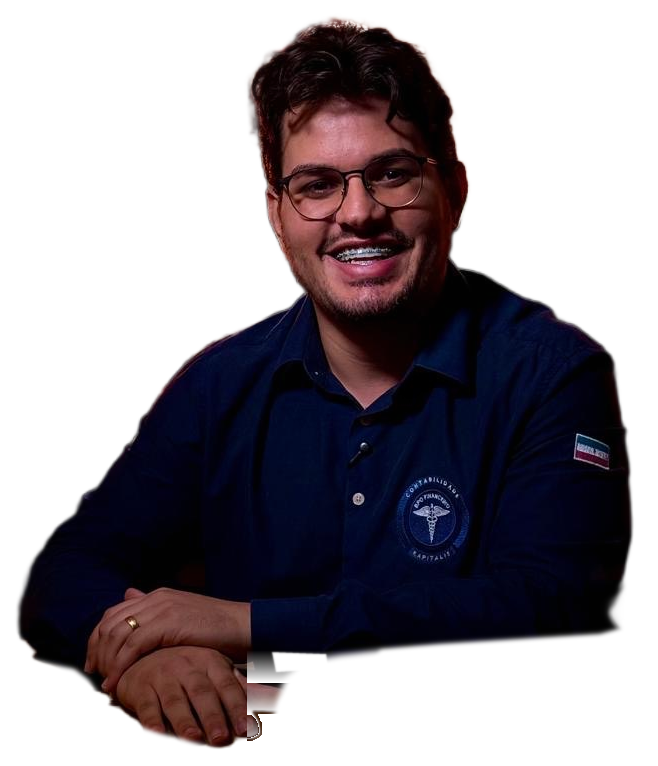
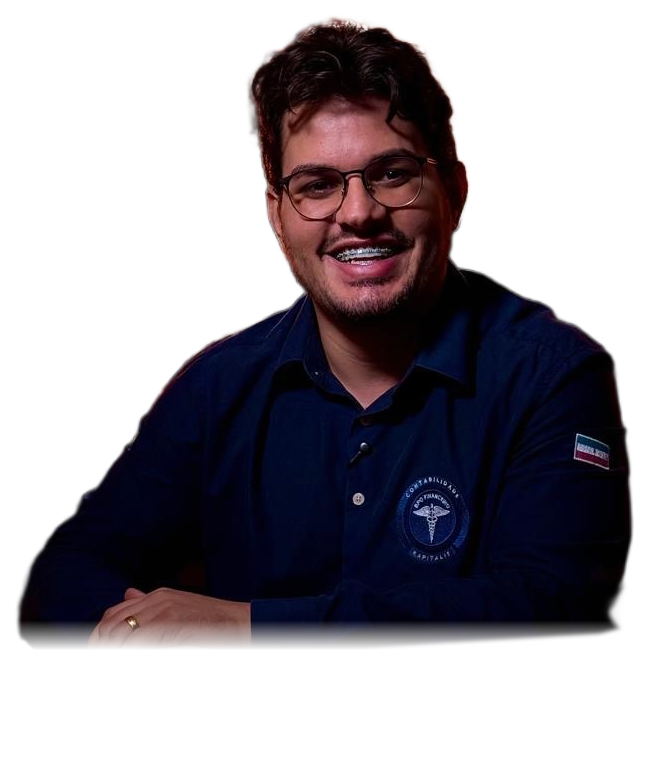
Ajusta retrato e posição do Próximo passo

Changed region(s): [[0.0304, 0.8107, 0.9422, 0.9909]]

diff --git a/src/sections/FinalCtaSection.module.css b/src/sections/FinalCtaSection.module.css
@@ -1,9 +1,7 @@
 .section {
   position: relative;
   overflow: clip;
-  background:
-    radial-gradient(ellipse at 20% 44%, var(--color-on-dark-glow), transparent 38rem),
-    var(--color-navy);
+  background: var(--color-navy);
   color: var(--color-paper);
 }
 
@@ -11,9 +9,9 @@
   position: relative;
   display: grid;
   grid-template-areas:
-    'portrait content'
+    'content portrait'
     'rule rule';
-  grid-template-columns: minmax(0, 0.9fr) minmax(0, 1.1fr);
+  grid-template-columns: minmax(0, 1.1fr) minmax(0, 0.9fr);
   align-items: center;
   column-gap: clamp(2.5rem, 5vw, 6rem);
   padding-block: clamp(3.75rem, 7vw, 6rem) clamp(2.75rem, 5vw, 4rem);
@@ -57,19 +55,19 @@
   grid-area: portrait;
   display: flex;
   align-items: flex-end;
-  justify-content: center;
+  justify-content: flex-end;
   min-width: 0;
   align-self: stretch;
 }
 
 .portrait img {
   display: block;
-  width: min(100%, 34rem);
+  width: min(100%, 26rem);
   height: auto;
   object-fit: contain;
   object-position: center bottom;
-  -webkit-mask-image: linear-gradient(to bottom, #000 89%, transparent 100%);
-  mask-image: linear-gradient(to bottom, #000 89%, transparent 100%);
+  -webkit-mask-image: linear-gradient(to bottom, #000 0%, #000 78%, transparent 100%);
+  mask-image: linear-gradient(to bottom, #000 0%, #000 78%, transparent 100%);
 }
 
 .action {
@@ -161,7 +159,7 @@
   }
 
   .portrait img {
-    width: min(100%, 27rem);
+    width: min(100%, 19rem);
     margin-inline: auto;
   }
 
